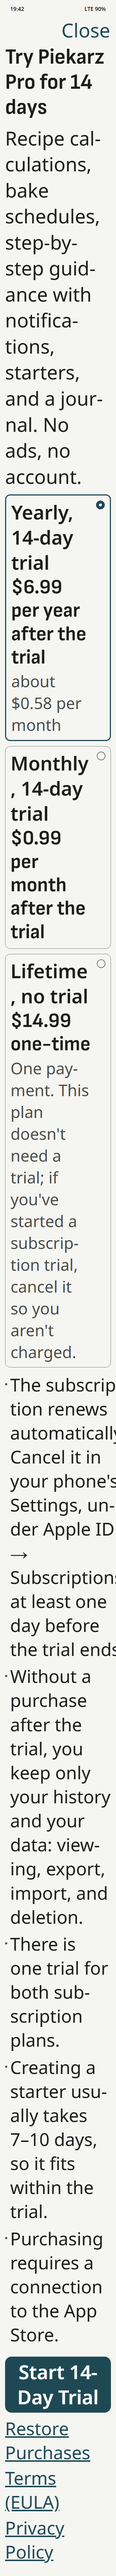
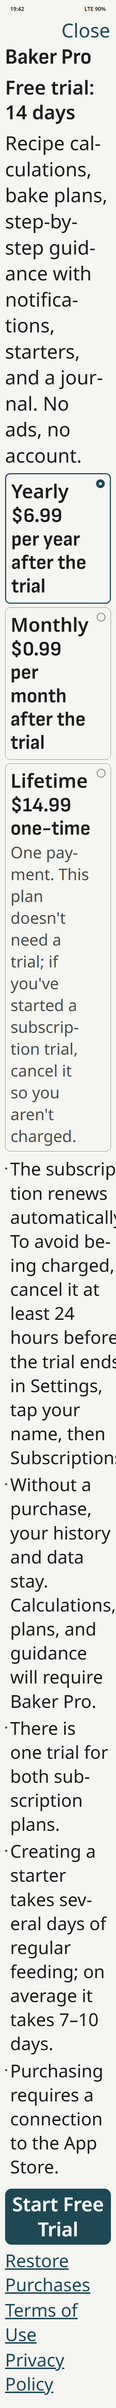
fix(makiety): zrzuty wzorcowe oferta-* odswiezone z makiety po 127, manifest zrodel pilnuje ich aktualnosci [M1-audytor-generalny-202; 04-studio-projektowe-610]
Dlaczego: linia bazowa SP-13 pokazywala stary ekran zakupu ("Wyprobuj Piekarz Pro przez 14 dni", "Apple ID ->", "Warunki (EULA)"), wiec reaudyt porownywal aplikacje z nieaktualnym wzorcem. 20 zrzutow tych samych wariantow (pl 320/390/430 jasny/ciemny/AX5, fr, en-US imp) z docs/design/narzedzia/zrzuty.mjs, DSF=1; manifest oferta-zrodlo.json ze skrotem oferta.html i tekstow of.*.
Test: tests/wzorce-oferty-202.test.ts (2/2; przed: 2 czerwone - brak manifestu).

diff --git a/tests/wzorce-oferty-202.test.ts b/tests/wzorce-oferty-202.test.ts
@@ -1,0 +1,34 @@
+/**
+ * Zrzuty wzorcowe `oferta-*` (linia bazowa SP-13) pochodzą z bieżącej makiety ekranu zakupu: manifest zapisuje skrót
+ * `oferta.html` i tekstów `of.*` z `teksty.js` z chwili wygenerowania zrzutów (`node docs/design/narzedzia/zrzuty.mjs`).
+ * Zmiana makiety bez odświeżenia zrzutów zatrzymuje test [M1-audytor-generalny-202; 04-studio-projektowe-610].
+ */
+import fs from 'fs';
+import path from 'path';
+import { createHash } from 'crypto';
+
+const root = path.join(__dirname, '..');
+const czytaj = (p: string) => fs.readFileSync(path.join(root, p), 'utf8').replace(/\r\n/g, '\n');
+
+/** Skrót źródeł zrzutów oferty: makieta i teksty `of.*` (końce linii LF, niezależnie od systemu). */
+function skrotZrodelOferty(): string {
+  const of = czytaj('docs/design/ekrany/teksty.js').split('\n').filter((l) => /^\s*"of\./.test(l)).join('\n');
+  return createHash('sha256').update(czytaj('docs/design/ekrany/oferta.html')).update('\n--\n').update(of).digest('hex');
+}
+
+describe('202: zrzuty wzorcowe oferty z bieżącej makiety', () => {
+  const manifestPath = 'docs/design/wzorce-zrzuty/oferta-zrodlo.json';
+
+  it('manifest istnieje i ma skrót bieżącej makiety oraz tekstów of.*', () => {
+    expect(fs.existsSync(path.join(root, manifestPath))).toBe(true);
+    const m = JSON.parse(czytaj(manifestPath));
+    expect(m.skrot).toBe(skrotZrodelOferty());
+  });
+
+  it('manifest wymienia każdy zrzut oferta-* w katalogu i tylko takie', () => {
+    const m = JSON.parse(czytaj(manifestPath));
+    const pliki = fs.readdirSync(path.join(root, 'docs/design/wzorce-zrzuty')).filter((f) => /^oferta-.*\.png$/.test(f)).sort();
+    expect(pliki.length).toBeGreaterThan(0);
+    expect([...m.zrzuty].sort()).toEqual(pliki);
+  });
+});
